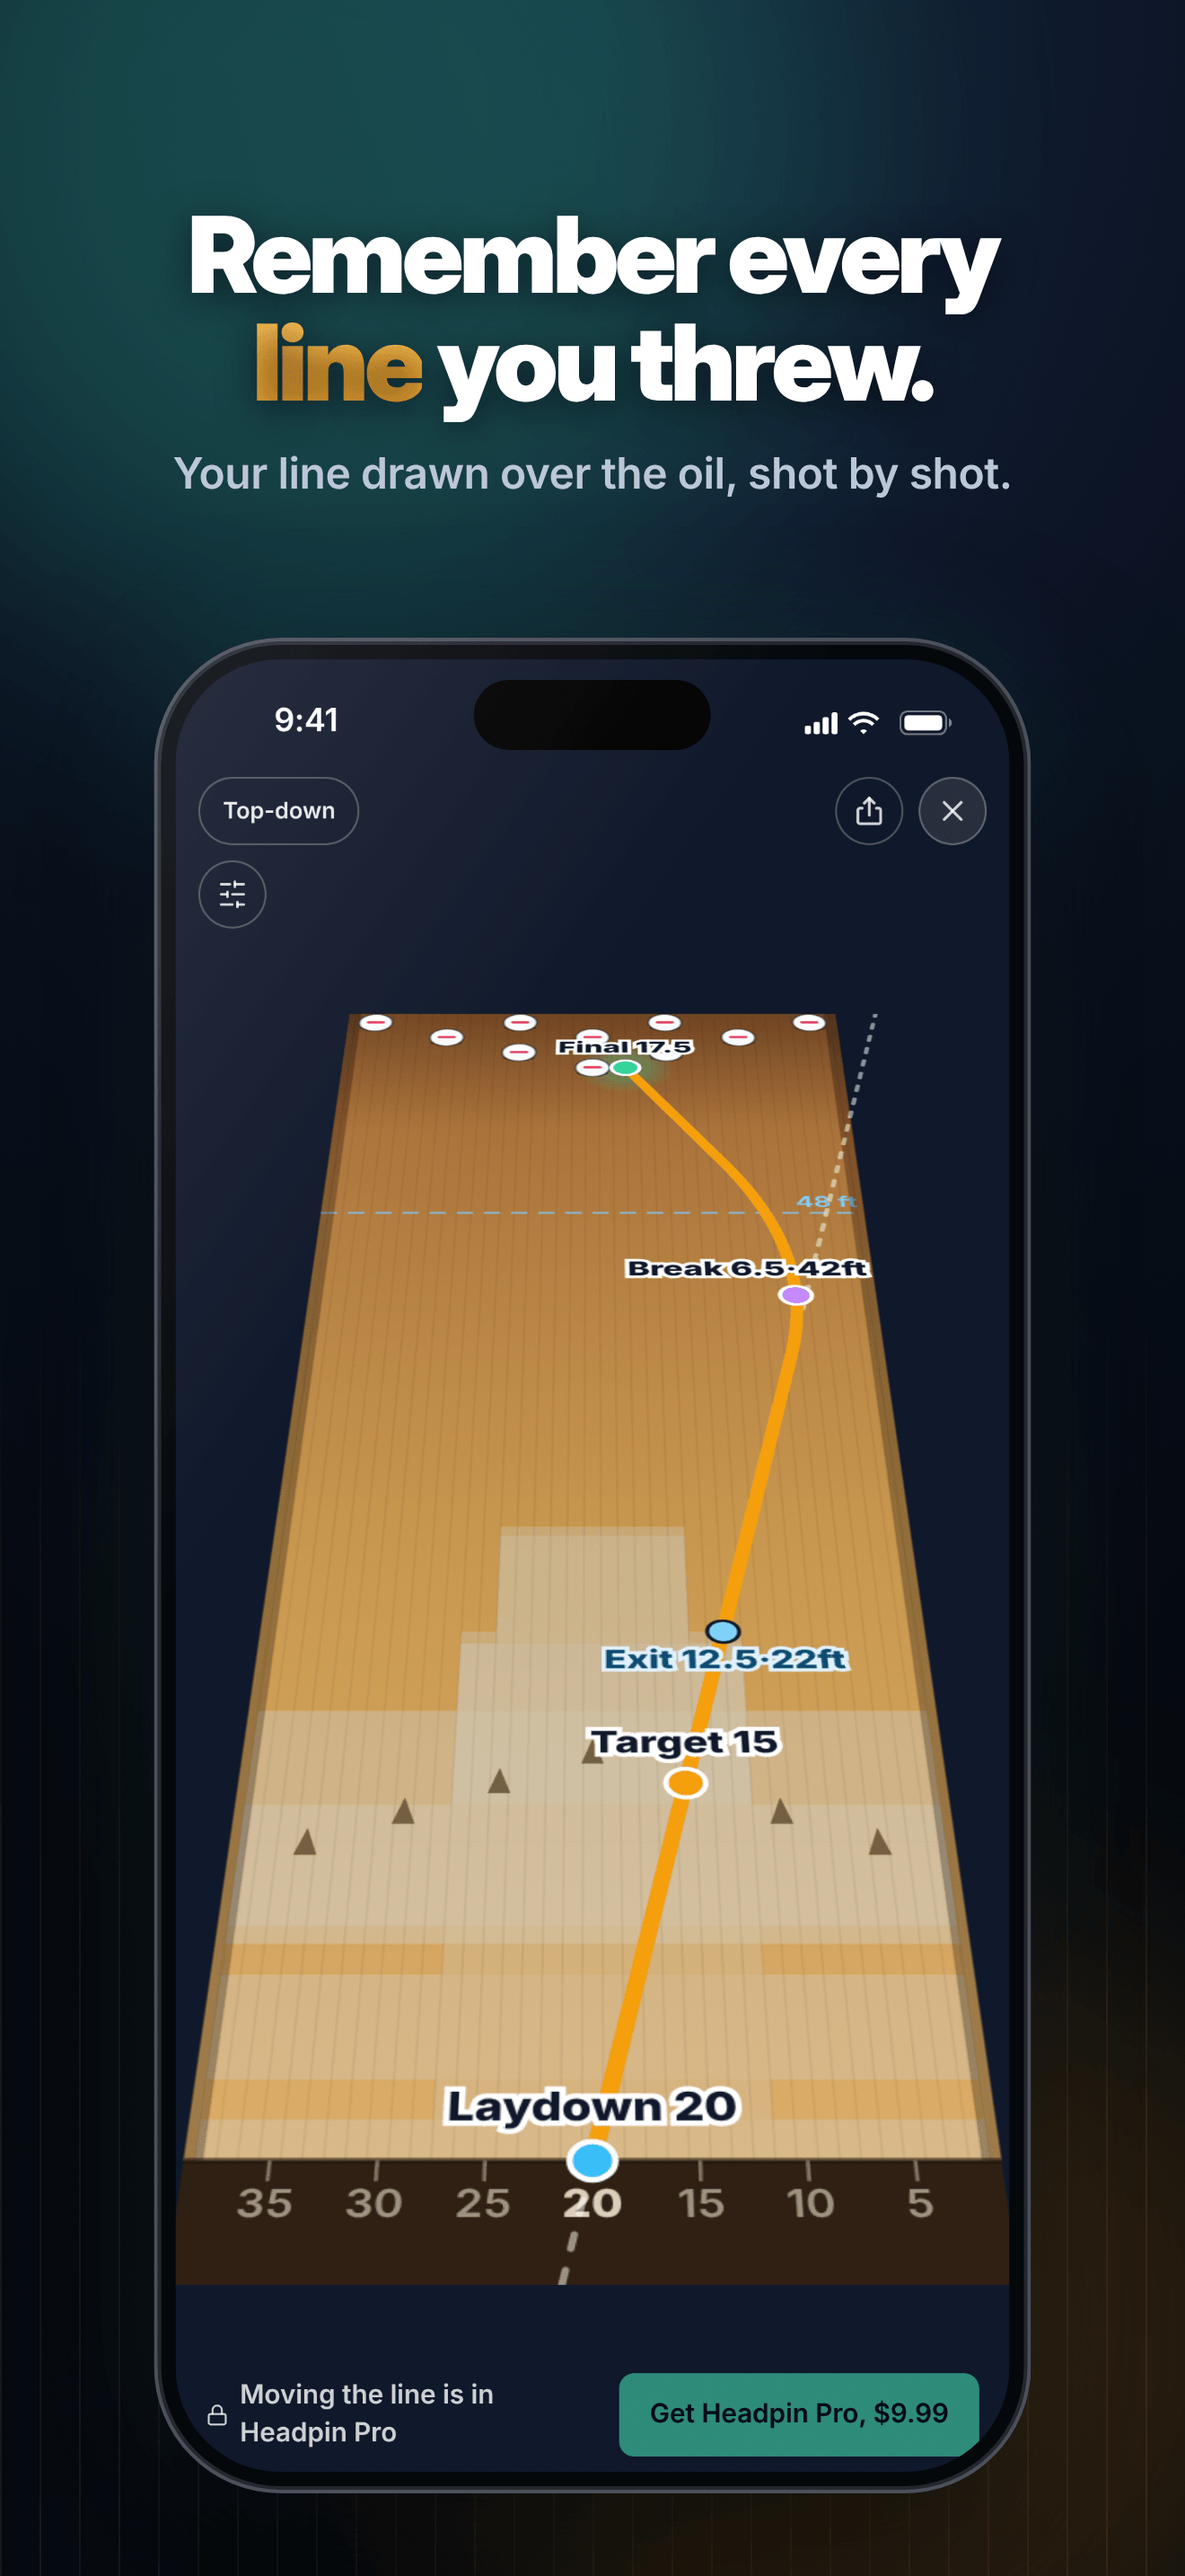
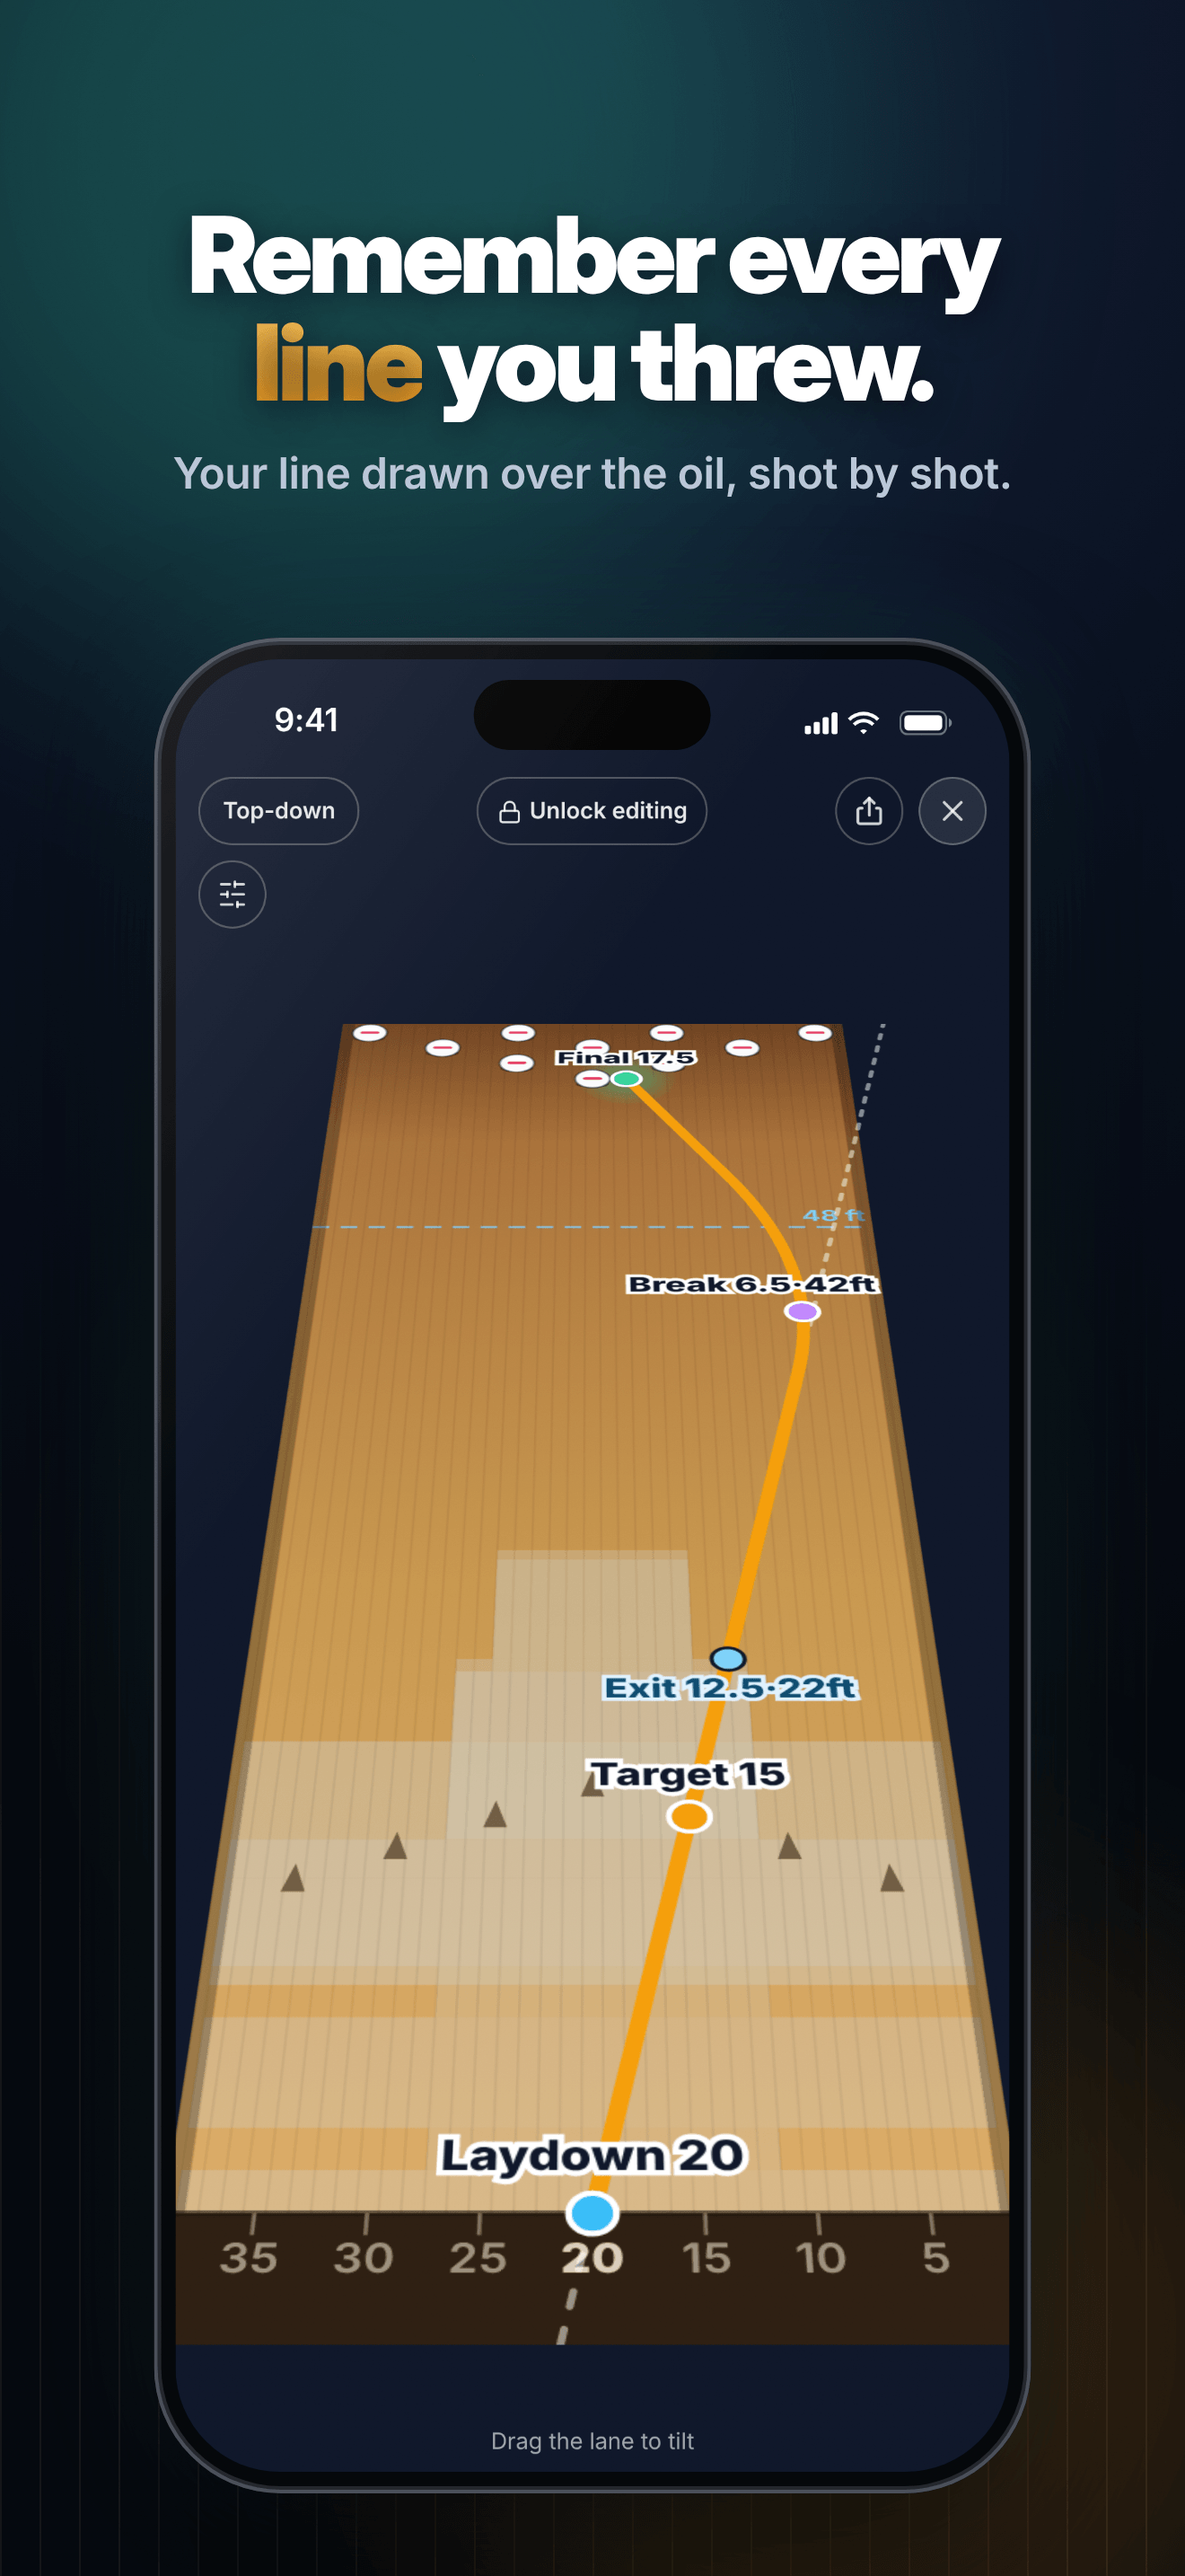
Retake the store screenshots and reel takes on 0.50
0.50.0 changed the screens the creative shows: locked cards are a faded
preview marked Pro, Home and Stats carry a Pro banner, the lane view has
an "Unlock editing" chip, and Layouts leads with the ball. The store set
is retaken on it, with Layouts shot as it opens. The reel's layout take
now stays on the ball and moves the three sliders through their input
events, so the drawing and what it will do change on screen.

Claude-Session: https://claude.ai/code/session_01EHRBT3VoDWQiasS5k23jxa

Changed region(s): [[0.1242, 0.3724, 0.8697, 0.962], [0.4348, 0.3103, 0.5902, 0.3414], [0.4038, 0.6827, 0.4348, 0.7137]]

diff --git a/docs/APP-STORE-LISTING.md b/docs/APP-STORE-LISTING.md
@@ -127,8 +127,8 @@ to upload; `plain/` is the same ten screens with no caption, for a listing or a
 press kit that wants the bare app. The script drives the app at the 6.9 inch
 size with the phone's safe areas, and tells the page it is inside the iPhone
 app, so every screen carries the app's copy, not the web's. The store answers
-at the US price, so a locked card reads "Get Headpin Pro, $9.99" as a free
-download sees it.
+at the US price, so a locked card shows its preview marked Pro, and the Get
+Headpin Pro button reads "$9.99", as a free download sees them.
 
 One idea per screenshot, a headline and one line under it, in the app's voice.
 The app's theme is light for the scorer, stats, layout and Home, and dark for
@@ -137,14 +137,14 @@ the rest, so the set shows both.
 | # | Screen | Headline | Under it |
 |---|---|---|---|
 | 1 | The scorer in the tenth, the 10 left standing, ball and line beside it | Score every shot. | Tap the pins you left. Unlimited games, free. |
-| 2 | The lane view, the line over 2019 PBA Shark 48 | Remember every line you threw. | Your line drawn over the oil, shot by shot. |
+| 2 | The lane view, the line over 2019 PBA Shark 48, with the "Unlock editing" chip | Remember every line you threw. | Your line drawn over the oil, shot by shot. |
 | 3 | The arsenal, nine balls | Your whole arsenal, free. | Every ball you own, with no cap on the bag. |
-| 4 | Stats: average, the trend chart, the first-ball card locked | Know what's working. | Average, high game, strike and spare rates. |
+| 4 | Stats: average, the Pro banner, the trend chart, the first-ball card's locked preview | Know what's working. | Average, high game, strike and spare rates. |
 | 5 | A catalog ball's page, photo and specs | Hundreds of balls, one tap. | Specs and photos. Build your bag from them. |
 | 6 | 2019 PBA Shark 48: its numbers and the oil on the lane | See the oil before you throw. | Load tables and the oil drawn on the lane. |
-| 7 | The layout lab with a drilled ball | See a layout before you drill it. | Dual angle and Storm VLS, drawn from your PAP. |
+| 7 | The layout lab as it opens: the drilled ball, what it will do, the read-only note | See a layout before you drill it. | Dual angle and Storm VLS, drawn from your PAP. |
 | 8 | Stats with Pro bought: first ball, leaves, balls, under the Headpin Pro badge | Go deeper with Pro. | Pocket, carry, leaves, ball by ball. One purchase, no subscription. |
-| 9 | Home, tonight's game in progress | Works without a signal. | No account to make. Built for the alley. |
+| 9 | Home, tonight's game in progress, with the Pro banner | Works without a signal. | No account to make. Built for the alley. |
 | 10 | History: five weeks of league nights | Every night, on your phone. | Unlimited sessions. Back up any time, free. |
 
 Shots 1 to 3 carry the pitch, since they are what a browser sees before it

diff --git a/marketing/app-store/2026-10-21/README.md b/marketing/app-store/2026-10-21/README.md
@@ -1,7 +1,7 @@
 # App Store screenshots, October 21, 2026
 
 The iPhone app's screenshots for App Store Connect, taken from the real app at
-0.49 by `scripts/app-store/screenshots.mjs`. The captions, the order and the
+0.50 by `scripts/app-store/screenshots.mjs`. The captions, the order and the
 rules behind them are in `docs/APP-STORE-LISTING.md` ("Screenshots").
 
 | Folder | What it is |
@@ -14,7 +14,7 @@ iPhones. iPad is not offered for 1.0 (ADR-160).
 
 Shot 8 is the one Pro screen and carries the Headpin Pro badge (App Review
 Guideline 2.3.2). The rest are taken without Pro, so where a Pro card shows it
-is locked, with "Get Headpin Pro, $9.99", as a free download sees it.
+shows its locked preview marked Pro, as a free download sees it.
 
 The screens are rendered by Chromium as the iPhone app (the page is told it is
 inside the app, and the store answers as StoreKit would). Two differences from a

diff --git a/marketing/ads/2026-10-21/README.md b/marketing/ads/2026-10-21/README.md
@@ -1,6 +1,6 @@
 # Launch ads for the iPhone app, October 21, 2026
 
-The third batch of ad creative, rendered from the real app at 0.49: one video,
+The third batch of ad creative, rendered from the real app at 0.50: one video,
 the feature reel, and the stills. It replaces `../2026-10-15/`, which said
 everything was free ("It's free", "Nothing to download. It opens in your
 browser."). Since ADR-154 Headpin is free to download with one Pro unlock in the
